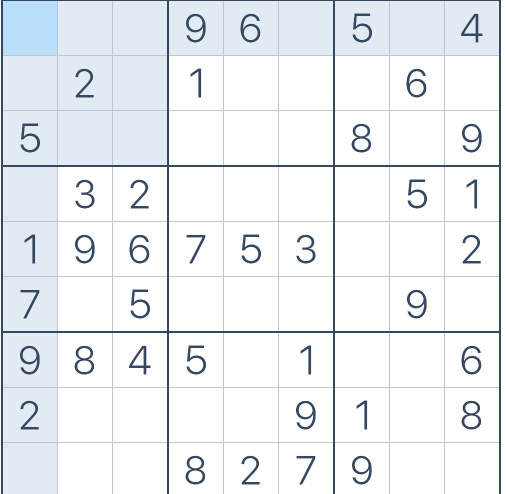
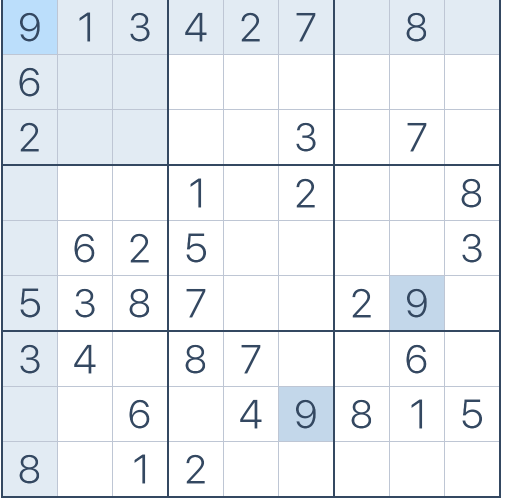
Improvements and changes

diff --git a/src/tesseract/ImageRecognition.java b/src/tesseract/ImageRecognition.java
@@ -34,7 +34,34 @@ public class ImageRecognition {
 
     private final BufferedImage image;
 
+    // temp
     private final int[][] board = new int[9][9];
+    private final int[][] current_board = new int[][] {
+            { 9, 1, 3, 4, 2, 7, 0, 8, 0 },
+            { 6, 0, 0, 0, 0, 0, 0, 0, 0 },
+            { 2, 0, 0, 0, 0, 3, 0, 7, 0 },
+            { 0, 0, 0, 1, 0, 2, 0, 0, 8 },
+            { 0, 6, 2, 5, 0, 0, 0, 0, 3 },
+            { 5, 3, 8, 7, 0, 0, 2, 9, 0 },
+            { 3, 4, 0, 8, 7, 0, 0, 6, 0 },
+            { 0, 0, 6, 0, 4, 9, 8, 1, 5 },
+            { 8, 0, 1, 2, 0, 0, 0, 0, 0 }
+    };
+
+    private void correctBoard() {
+        int mistake = 0;
+        for (int i = 0; i < board.length; i++) {
+            for (int j = 0; j < board.length; j++) {
+                if (current_board[i][j] != board[i][j]) {
+                    System.out.println("swapping " + board[i][j] + " for " + current_board[i][j]);
+                    board[i][j] = current_board[i][j];
+                    mistake++;
+                }
+            }
+        }
+        System.out.println("The board has " + (board.length * board.length) + " elements in which " + ((double) mistake / (board.length * board.length) * 100) + "% were mistakes.");
+        System.out.println();
+    }
 
     private final Tesseract tesseract;
 
@@ -75,10 +102,19 @@ public class ImageRecognition {
                     if (col > 8)
                         col = 0;
                 }
+
             }
 
             SudukoBoard sudukoBoard = new SudukoBoard(board, 9);
             sudukoBoard.displayBoard();
+
+            correctBoard();
+
+            sudukoBoard.displayBoard();
+
+            System.out.println("solving....");
+            if (sudukoBoard.canSolve())
+                sudukoBoard.displayBoard();
 
         } catch (TesseractException e) {
             System.err.println("Tesseract could not perform OCR.");

diff --git a/src/Launch.java b/src/Launch.java
@@ -3,15 +3,15 @@ import board.SudukoBoard;
 public class Launch {
 
     private static final int[][] BOARD = new int[][] {
-            { 0, 0, 0, 9, 6, 0, 5, 0, 4 },
-            { 0, 2, 0, 1, 0, 0, 0, 6, 0 },
-            { 5, 0, 0, 0, 0, 0, 8, 0, 9 },
-            { 0, 3, 2, 0, 0, 0, 0, 5, 1 },
-            { 1, 9, 6, 7, 5, 3, 0, 0, 2 },
-            { 7, 0, 5, 0, 0, 0, 0, 9, 0 },
-            { 9, 8, 4, 5, 0, 1, 0, 0, 6 },
-            { 2, 0, 0, 0, 0, 9, 1, 0, 8 },
-            { 0, 0, 0, 8, 2, 7, 9, 0, 0 }
+            { 9, 1, 3, 4, 2, 7, 0, 8, 0 },
+            { 6, 0, 0, 0, 0, 0, 0, 0, 0 },
+            { 2, 0, 0, 0, 0, 3, 0, 7, 0 },
+            { 0, 0, 0, 1, 0, 2, 0, 0, 8 },
+            { 0, 6, 2, 5, 0, 0, 0, 0, 3 },
+            { 5, 3, 8, 7, 0, 0, 2, 9, 0 },
+            { 3, 4, 0, 8, 7, 0, 0, 6, 0 },
+            { 0, 0, 6, 0, 4, 9, 8, 1, 5 },
+            { 8, 0, 1, 2, 0, 0, 0, 0, 0 }
     };
 
     private final static int SIZE = 9;
